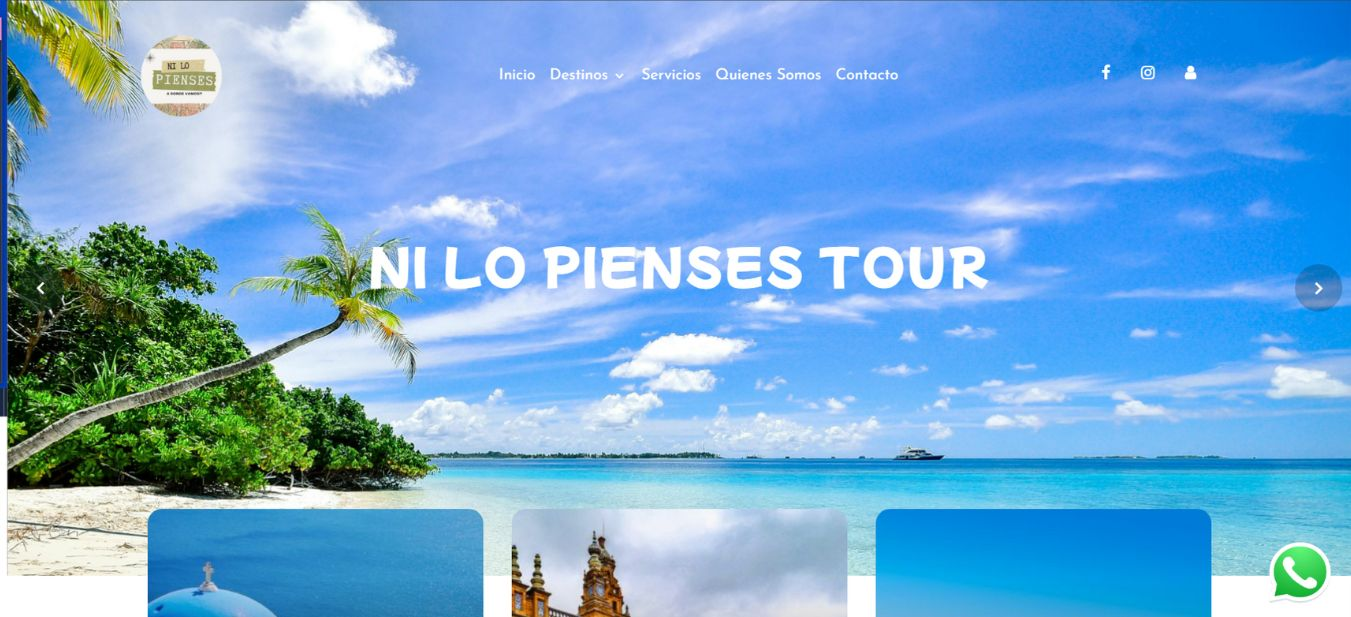
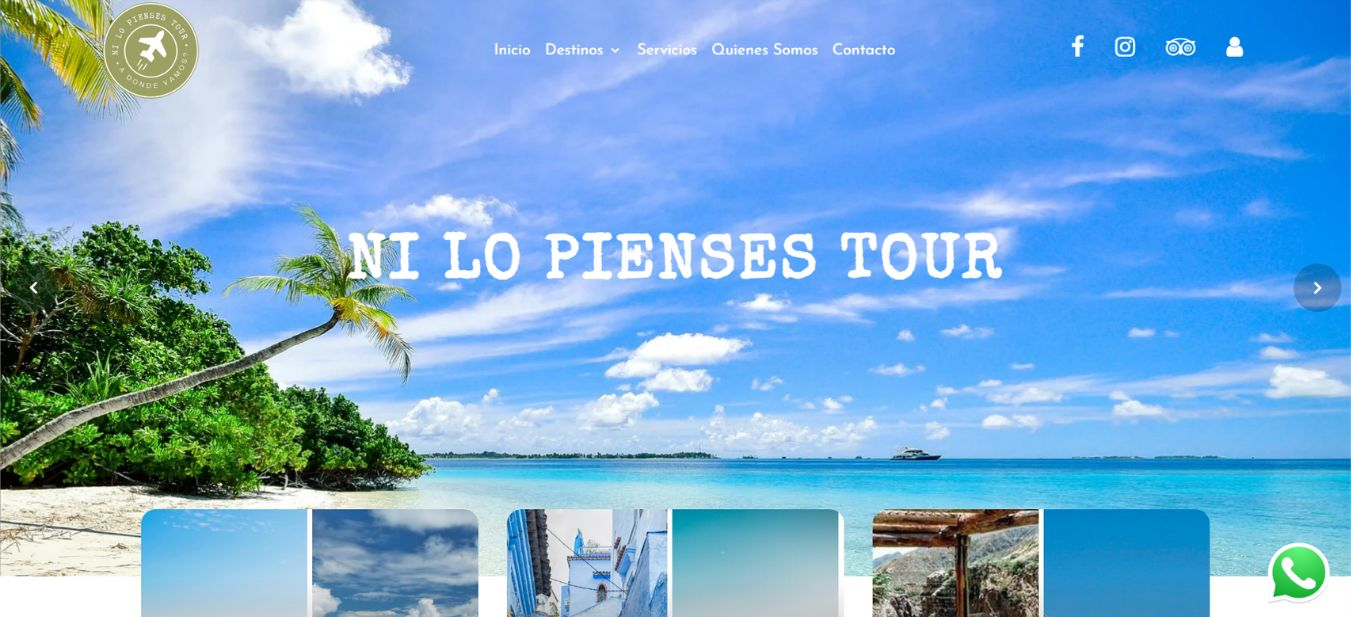
se agrega web logistica

diff --git a/index.html b/index.html
@@ -421,22 +421,7 @@ Copyright <script>document.write(new Date().getFullYear());</script><i class="ic
 					<div class="row">
 						<div class="col-md-12">
 				         <div class="timeline-centered">
-							<article class="timeline-entry animate-box" data-animate-effect="fadeInRight">
-					            <div class="timeline-entry-inner">
-					               <div class="timeline-icon color-2">
-					                  <i class="icon-pen2"></i>
-					               </div>
-					               <div class="timeline-label">
-					               	<h2><a href="#">Freelancer Social Media</a> <span>Septiembre 2023 - Actualidad</span></h2>
-									<p>Manejo de Redes Sociales</p>
-					                  <p>Creación de contenido atractivo y relevante para la audiencia con el objetivo de interactuar con los usuarios, aumentar la visibilidad de una empresa y generar interés. 
-										Tener presencia en los medios sociales tiene un impacto positivo para la imagen corporativa, ya que aporta modernidad</p>
-										<a href="https://www.instagram.com/camcomerciobahiablanca/" target="_blank">Cuenta</a>
-					               </div>
-					            </div>
-					         </article>
-
-					         <article class="timeline-entry animate-box" data-animate-effect="fadeInLeft">
+							<article class="timeline-entry animate-box" data-animate-effect="fadeInLeft">
 					            <div class="timeline-entry-inner">
 
 					               <div class="timeline-icon color-1">
@@ -448,6 +433,20 @@ Copyright <script>document.write(new Date().getFullYear());</script><i class="ic
 									  <p>Desarrollo de paginas Web</p>
 					                  <p>Diseño y desarrollo de páginas web utilizando HTML, CSS, JavaScript y PHP, creando experiencias interactivas y atractivas para los usuarios en diferentes dispositivos y tamaño de pantalla.</p>
 									  <a href="index.html#work">Web´s</a>
+					               </div>
+					            </div>
+					         </article>
+							 <article class="timeline-entry animate-box" data-animate-effect="fadeInRight"></article>
+					            <div class="timeline-entry-inner">
+					               <div class="timeline-icon color-2">
+					                  <i class="icon-pen2"></i>
+					               </div>
+					               <div class="timeline-label">
+					               	<h2><a href="#">Freelancer Social Media</a> <span>Septiembre 2023 - Actualidad</span></h2>
+									<p>Manejo de Redes Sociales</p>
+					                  <p>Creación de contenido atractivo y relevante para la audiencia con el objetivo de interactuar con los usuarios, aumentar la visibilidad de una empresa y generar interés. 
+										Tener presencia en los medios sociales tiene un impacto positivo para la imagen corporativa, ya que aporta modernidad</p>
+										<a href="https://www.instagram.com/camcomerciobahiablanca/" target="_blank">Cuenta</a>
 					               </div>
 					            </div>
 					         </article>
@@ -802,22 +801,21 @@ Copyright <script>document.write(new Date().getFullYear());</script><i class="ic
 								</div>
 							</div>
 						</div>
-						<!--<div class="col-md-6 animate-box" data-animate-effect="fadeInRight">
-							<div class="project" style="background-image: url(images/img-6.jpg);">
+						<div class="col-md-6 animate-box" data-animate-effect="fadeInLeft">
+							<div class="project proyectos" style="background-image: url(images/logstica4d.jpg);">
 								<div class="desc">
 									<div class="con">
-										<h3><a href="work.html">Work 06</a></h3>
+										<h3><a href="https://msoledadc.github.io/logistica/" target="_blank">Logística y transporte 4D</a></h3>
 										<span>Website</span>
 										<p class="icon">
-											<span><a href="#"><i class="icon-share3"></i></a></span>
-											<span><a href="#"><i class="icon-eye"></i> 100</a></span>
+											<span><a href="https://msoledadc.github.io/logistica//"><i class="icon-share3"></i></a></span>
+											<span><a href="https://msoledadc.github.io/logistica/" target="_blank"><i class="icon-eye"></i> 100</a></span>
 											<span><a href="#"><i class="icon-heart"></i> 49</a></span>
 										</p>
 									</div>
 								</div>
 							</div>
 						</div>
-					</div>-->
 					<div class="row">
 						<div class="col-md-12 animate-box">
 							<p><a href="#" class="btn btn-primary btn-lg btn-load-more">Cargar Más <i class="icon-reload"></i></a></p>
